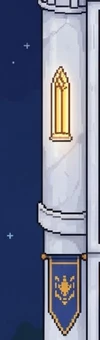
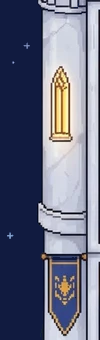
v3.38.3: torri della Rocca dritte fino alla base, cielo uniforme nel contorno del Palazzo
Claude-Session: https://claude.ai/code/session_0172XSwwqtzYGYUizC6FgUXo

diff --git a/js/app.js b/js/app.js
@@ -53,7 +53,7 @@ const SKIN = { castello: { modulare: true, img: "img/castello.webp", w: 768, h: 
   tessere: { dir: "img/dimore/castello/tessere/", dim: {"bagno":[648,576],"balcone":[312,576],"camera":[648,576],"cantina":[768,576],"corridoio":[336,576],"cucina":[528,576],"cucina_soggiorno":[1056,576],"giardino":[744,576],"ingresso":[528,576],"lavanderia":[768,576],"ripostiglio":[528,576],"soggiorno":[720,576],"studio":[720,576],"terrazzo":[744,576]}, tipi: ["bagno", "camera", "ripostiglio", "corridoio", "cucina", "ingresso", "soggiorno", "balcone", "cucina_soggiorno", "studio", "lavanderia", "terrazzo", "giardino", "cantina"] },
   file: { bagno: "bagno", camera: "camera", ripostiglio: "sgabuzzino", corridoio: "corridoio", cucina: "cucina", ingresso: "ingresso", soggiorno: "soggiorno", balcone: "balcone", cucina_soggiorno: "cucina_soggiorno", studio: "studio", lavanderia: "lavanderia", cantina: "cantina", giardino: "giardino" } },
   reggia: { modulare: true, img: "img/dimore/reggia/sezione.webp", w: 768, h: 1376, sezione: SEZ_REGGIA, stanze: "img/dimore/reggia/stanze/",
-  cornice: { dir: "img/dimore/reggia/", tetto: [768, 300], base: [768, 291], muro: [100, 340], dx: [146, 280], area: [100, 622], fondo: "#d9d3e0" },
+  cornice: { dir: "img/dimore/reggia/", tetto: [768, 300], base: [768, 291], muro: [100, 340], dx: [146, 280], area: [100, 622], fondo: "#d9d3e0", cielo: "#111b40" },
   tessere: { dir: "img/dimore/reggia/tessere/", dim: {"bagno":[648,576],"balcone":[312,576],"camera":[648,576],"cantina":[768,576],"corridoio":[336,576],"cucina":[528,576],"cucina_soggiorno":[1056,576],"giardino":[744,576],"ingresso":[528,576],"lavanderia":[768,576],"ripostiglio":[528,576],"soggiorno":[720,576],"studio":[720,576],"terrazzo":[744,576]}, tipi: ["bagno", "camera", "ripostiglio", "corridoio", "cucina", "ingresso", "soggiorno", "balcone", "cucina_soggiorno", "studio", "terrazzo", "giardino", "cantina"] },
   file: { bagno: "bagno", camera: "camera", ripostiglio: "sgabuzzino", corridoio: "corridoio", cucina: "cucina", ingresso: "ingresso", soggiorno: "soggiorno", balcone: "balcone", cucina_soggiorno: "cucina_soggiorno", studio: "studio", lavanderia: "lavanderia", cantina: "cantina", giardino: "giardino", terrazzo: "terrazzo" } } };
 /* Lo stesso nelle viste delle singole stanze (immagini 720×676, 720×706 il corridoio): il pavimento è un rombo, i piedi stanno nella parte centrale. */
@@ -115,7 +115,7 @@ const LIVELLI_PRODOTTO = ["pieno", "metà", "quasi finito", "finito"];
 /* Un prodotto finito senza confezioni di scorta sparisce dallo scaffale: resta solo nella lista della spesa, e torna quando lo compri. */
 const sulloScaffale = p => !(p.livello === "finito" && !((p.scorta || 0) > 0));
 const XP_SOGLIE = [0, 200, 450, 750, 1100, 1500, 2000];
-const VERSIONE_APP = "3.38.2";
+const VERSIONE_APP = "3.38.3";
 const LV_ANIMALE = 2; /* dal livello 2 il primo animale è un regalo; gli altri si comprano con le monete */
 const SBLOCCHI = ["personaggio base", "il tuo primo animale, in regalo", "cappelli e accessori", "segni particolari", "accessori per animali", "animali fantasy", "oggetti rari"];
 const CAT = {

diff --git a/sw.js b/sw.js
@@ -1,6 +1,6 @@
 /* Our little world · service worker
    Tiene in cache la "scocca" dell'app così si apre subito; i dati arrivano sempre freschi da Supabase. */
-const VERSIONE = "olw-v3.38.2";
+const VERSIONE = "olw-v3.38.3";
 const SCOCCA = ["./", "index.html", "css/style.css", "js/store.js", "js/sprite.js", "js/csv.js", "js/ampolle.js", "js/app.js", "config.js", "manifest.webmanifest", "icons/icon-192.png", "icons/icon-512.png", "img/castello.webp", "img/porta.png", "img/porta-sporco1.png", "img/porta-sporco2.png", "img/porta-sporco3.png"];
 
 self.addEventListener("install", e => {

diff --git a/tools/dimore/cornice_cielo.py b/tools/dimore/cornice_cielo.py
@@ -1,0 +1,23 @@
+#!/usr/bin/env python3
+"""Uniforma il cielo del contorno di una dimora: nelle fasce laterali e nella base il cielo (che nelle immagini originali
+è un gradiente diverso da quello del tetto, e a ogni ripetizione della fascia fa uno scalino) diventa un colore unico,
+quello delle ultime righe del tetto. Le torri e le decorazioni non cambiano.
+Uso (dalla radice): python3 tools/dimore/cornice_cielo.py reggia 17 27 64"""
+import sys, numpy as np
+from PIL import Image
+dim = sys.argv[1]; SKY = np.array(list(map(int, sys.argv[2:5])))
+orig = f"tools/dimore/modulare/{dim}/cornice/"; out = f"img/dimore/{dim}/"
+
+def piatta(a, lato, soglia=40):
+    """Cambia in SKY i pixel simili al cielo di quella riga (preso dal bordo esterno della fascia)."""
+    a = a.astype(int); rif = a[:, 2:3] if lato == "sx" else a[:, -3:-2]
+    m = np.abs(a - rif).sum(2) < soglia
+    a[m] = SKY; return a.astype(np.uint8)
+
+for nome, lato in (("muro", "sx"), ("muro_dx", "dx")):
+    a = np.array(Image.open(orig + nome + ".webp").convert("RGB"))
+    Image.fromarray(piatta(a, lato)).save(out + nome + ".webp", lossless=True)
+B = np.array(Image.open(orig + "base.webp").convert("RGB")).astype(int)
+rif = B[0, 3]; top = B[:40]; m = np.abs(top - rif).sum(2) < 36; top[m] = SKY; B[:40] = top
+Image.fromarray(B.astype(np.uint8)).save(out + "base.webp", lossless=True)
+print("fatto", dim)

diff --git a/tools/dimore/cornice_continua.py b/tools/dimore/cornice_continua.py
@@ -41,6 +41,10 @@ ZOC, TER = 16, 22
 vecchio = B[:, 2:8].reshape(-1, 3).mean(0)
 B[np.abs(B - vecchio).sum(2) < 24] = SKY     # il cielo della base prende il colore del tetto
 cielo_sx = cielo_dx = SKY.astype(float)
+# gli anelli in cima alle torri della base sporgono oltre la fascia: si sostituiscono con il fusto, così la torre sale dritta
+RING = 40
+for xa, xb, fuori in ((24, 164, (0, 24)), (606, 744, (744, w))):
+    B[:RING, xa:xb] = B[96:96 + RING, xa:xb]; B[:RING, fuori[0]:fuori[1]] = SKY
 nuova = np.zeros((h + ZOC + TER, w, 3)); nuova[:h] = B
 for y in range(h, h + ZOC + TER):
     nuova[y, :w // 2] = cielo_sx; nuova[y, w // 2:] = cielo_dx
